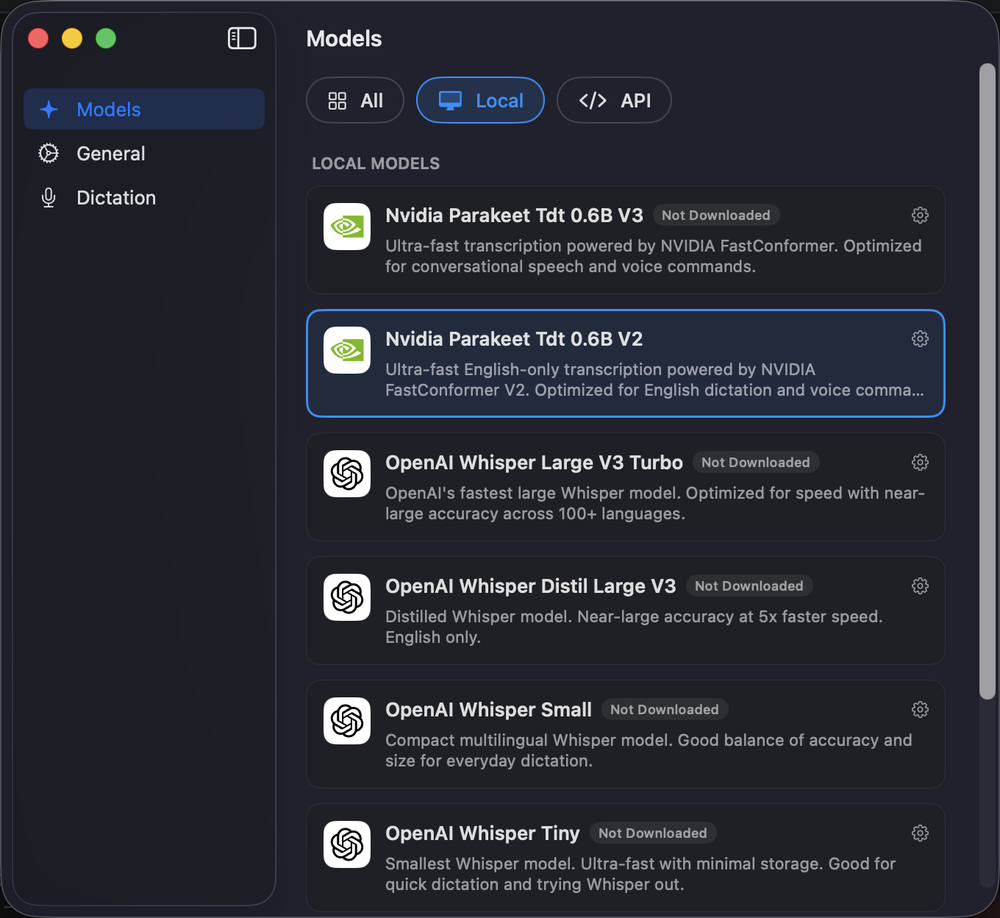
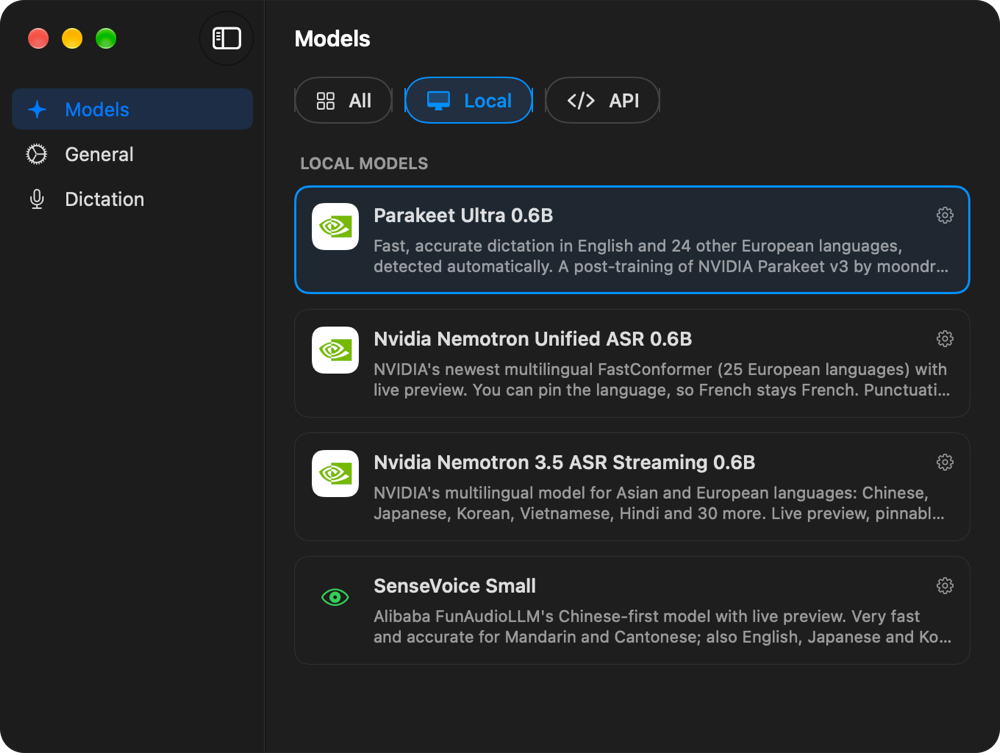
Update README models screenshot for the new lineup
assets/models.png now shows Parakeet Ultra, Nemotron Unified,
Nemotron 3.5 Streaming and SenseVoice. Rendered in-process by the
opt-in ReadmeScreenshotTests (TEST_RUNNER_ORA_SCREENSHOT=<path>), so
it can be regenerated without Screen Recording permission.

diff --git a/oraTests/ReadmeScreenshotTests.swift b/oraTests/ReadmeScreenshotTests.swift
@@ -1,0 +1,86 @@
+//
+//  ReadmeScreenshotTests.swift
+//  oraTests
+//
+//  Opt-in helper that renders the real Settings window on the Models
+//  page (dark mode, Local filter) and writes it as a PNG, for
+//  `assets/models.png` in the README. Drawn in-process, so it needs no
+//  Screen Recording permission. Run with:
+//
+//    TEST_RUNNER_ORA_SCREENSHOT=/path/to/models.png \
+//    xcodebuild test -scheme ora -only-testing:oraTests/ReadmeScreenshotTests
+//
+
+import AppKit
+import SwiftUI
+import Testing
+@testable import ora
+
+@MainActor
+@Suite(.enabled(if: ProcessInfo.processInfo.environment["ORA_SCREENSHOT"] != nil))
+struct ReadmeScreenshotTests {
+    @Test("render the Models page for the README")
+    func modelsPage() async throws {
+        let output = URL(fileURLWithPath: ProcessInfo.processInfo.environment["ORA_SCREENSHOT"]!)
+
+        let suite = "ora.tests.\(UUID().uuidString)"
+        let defaults = UserDefaults(suiteName: suite)!
+        defer { defaults.removePersistentDomain(forName: suite) }
+        let preferences = Preferences(defaults: defaults)
+        preferences.selectedModelId = FluidAudioTranscriber.modelId
+
+        SettingsNavigator.shared.pendingPage = .models
+        let root = ContentView()
+            .environment(preferences)
+            .environment(ModelManager.shared)
+            .environment(DictationCoordinator.shared.inputDevices)
+            .preferredColorScheme(.dark)
+
+        let size = NSSize(width: 680, height: 470)
+        let window = NSWindow(
+            contentRect: NSRect(origin: .zero, size: size),
+            styleMask: [.titled, .closable, .miniaturizable, .resizable, .fullSizeContentView],
+            backing: .buffered, defer: false)
+        let previousAppearance = NSApp.appearance
+        NSApp.appearance = NSAppearance(named: .darkAqua)
+        defer { NSApp.appearance = previousAppearance }
+        window.appearance = NSAppearance(named: .darkAqua)
+        window.contentView = NSHostingView(rootView: root)
+        window.setContentSize(size)
+        window.center()
+        // Key + active, so the traffic lights are coloured and the
+        // sidebar selection uses the accent colour.
+        NSApp.activate(ignoringOtherApps: true)
+        window.makeKeyAndOrderFront(nil)
+        defer { window.close() }
+
+        // Let SwiftUI lay out, load brand icons and settle animations.
+        try await Task.sleep(for: .seconds(2))
+
+        guard let frameView = window.contentView?.superview else {
+            Issue.record("no window frame view"); return
+        }
+        let bounds = frameView.bounds
+        guard let rep = frameView.bitmapImageRepForCachingDisplay(in: bounds) else {
+            Issue.record("no bitmap rep"); return
+        }
+        frameView.cacheDisplay(in: bounds, to: rep)
+
+        // The capture is the window's rectangle; clip it to the window's
+        // rounded corners so it looks like the window on screen.
+        let width = rep.pixelsWide, height = rep.pixelsHigh
+        let scale = CGFloat(width) / bounds.width
+        let context = try #require(CGContext(
+            data: nil, width: width, height: height, bitsPerComponent: 8, bytesPerRow: 0,
+            space: CGColorSpace(name: CGColorSpace.sRGB)!,
+            bitmapInfo: CGImageAlphaInfo.premultipliedLast.rawValue))
+        let rect = CGRect(x: 0, y: 0, width: width, height: height)
+        let radius = 16 * scale
+        context.addPath(CGPath(roundedRect: rect, cornerWidth: radius, cornerHeight: radius, transform: nil))
+        context.clip()
+        context.draw(try #require(rep.cgImage), in: rect)
+        let clipped = NSBitmapImageRep(cgImage: try #require(context.makeImage()))
+        let png = try #require(clipped.representation(using: .png, properties: [:]))
+        try png.write(to: output)
+    }
+}
